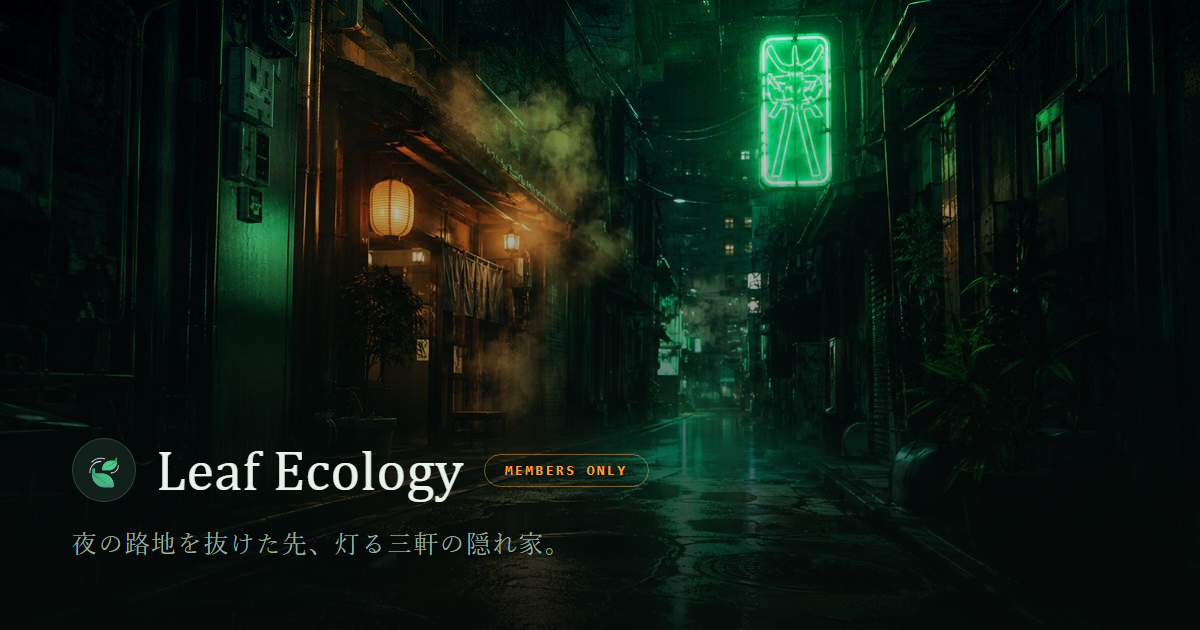
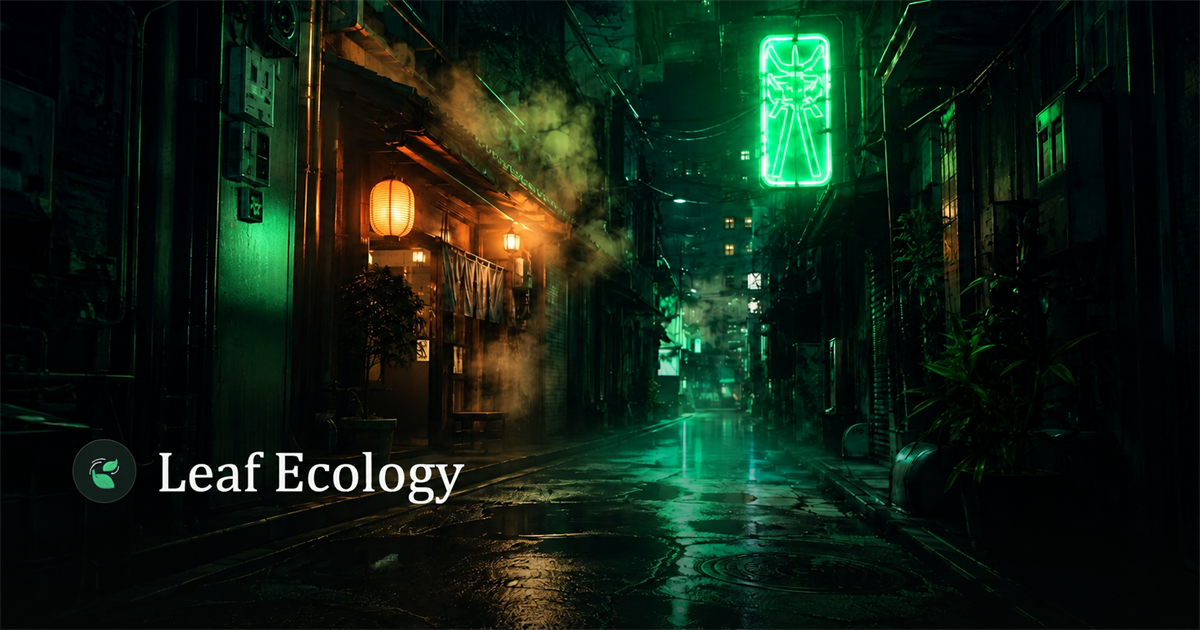
2026/10/25 update

diff --git a/ramen.css b/ramen.css
@@ -29,7 +29,7 @@
   margin-bottom: 2.5rem;
   border: 1px solid var(--line);
   border-radius: var(--radius-card);
-  padding: 2.25rem 2.25rem 2rem;
+  padding: 3.5rem 2.25rem;
   position: relative;
   overflow: hidden;
   isolation: isolate;
@@ -51,25 +51,12 @@
   background: linear-gradient(115deg, rgba(6,11,9,0.88) 30%, rgba(6,11,9,0.5) 100%);
 }
 .page-header .steam { z-index: 1; }
-.page-eyebrow {
-  position: relative; z-index: 2;
-  display: inline-flex; align-items: center; gap: 0.5rem;
-  font-family: var(--font-mono);
-  font-size: 0.68rem; font-weight: 500; letter-spacing: 0.2em;
-  text-transform: uppercase; color: var(--lantern);
-  margin-bottom: 0.7rem;
-}
-.page-eyebrow::before { content: ''; width: 20px; height: 1px; background: var(--lantern); }
 .page-title {
   position: relative; z-index: 2;
   font-family: var(--font-serif-jp);
   font-size: clamp(2rem, 4.5vw, 3.4rem);
   font-weight: 700; letter-spacing: 0.08em; line-height: 1.1;
-  color: var(--steam); margin-bottom: 0.6rem;
-}
-.page-sub {
-  position: relative; z-index: 2;
-  font-size: 0.9rem; color: var(--mist); max-width: 480px; line-height: 1.6;
+  color: var(--steam);
 }
 
 /* ── STATS BENTO ── */
@@ -385,6 +372,54 @@
 .modal-meta-label { font-size: 0.6rem; font-weight: 700; letter-spacing: 0.08em; text-transform: uppercase; color: var(--mist); margin-bottom: 0.2rem; }
 .modal-meta-val { font-size: 0.9rem; font-weight: 700; color: var(--steam); }
 
+/* ── BACK TO TOP ── */
+#back-to-top-sentinel {
+  width: 1px;
+  height: 1px;
+  pointer-events: none;
+}
+.back-to-top {
+  position: fixed;
+  right: 1.5rem;
+  bottom: 1.5rem;
+  z-index: 150;
+  width: 48px;
+  height: 48px;
+  display: grid;
+  place-items: center;
+  border: 1px solid rgba(240,160,75,0.65);
+  border-radius: 50%;
+  background: rgba(12,21,16,0.92);
+  color: var(--lantern);
+  box-shadow: 0 10px 28px rgba(0,0,0,0.38), inset 0 0 18px rgba(240,160,75,0.08);
+  backdrop-filter: blur(10px);
+  -webkit-backdrop-filter: blur(10px);
+  font-family: var(--font-sans);
+  font-size: 1.25rem;
+  line-height: 1;
+  cursor: pointer;
+  opacity: 0;
+  visibility: hidden;
+  pointer-events: none;
+  transform: translateY(10px);
+  transition: opacity 0.25s ease, transform 0.25s ease, visibility 0.25s;
+}
+.back-to-top.is-visible {
+  opacity: 1;
+  visibility: visible;
+  pointer-events: auto;
+  transform: translateY(0);
+}
+.back-to-top:hover {
+  background: var(--lantern);
+  color: var(--night-deep);
+}
+.back-to-top:active { transform: translateY(1px) scale(0.96); }
+.back-to-top:focus-visible {
+  outline: 2px solid var(--neon);
+  outline-offset: 4px;
+}
+
 /* ── RESPONSIVE ── */
 @media (max-width: 900px) {
   .page { padding: 80px 1.25rem 3rem; }
@@ -399,4 +434,9 @@
 @media (max-width: 480px) {
   .stats-bento { grid-template-columns: 1fr 1fr; }
   .stat-num { font-size: 2.2rem; }
+  .back-to-top { right: 1rem; bottom: 1rem; }
+}
+
+@media (prefers-reduced-motion: reduce) {
+  .back-to-top { transition: none; }
 }

diff --git a/script.js b/script.js
@@ -6,6 +6,7 @@ document.addEventListener('DOMContentLoaded', () => {
 
   /* JS有効の印(スクロール出現のCSSはこのクラス配下でのみ有効) */
   document.body.classList.add('js');
+  const reduceMotion = window.matchMedia('(prefers-reduced-motion: reduce)');
 
   /* ── Nav: スクロールで背景を濃くする(センチナル要素をIntersectionObserverで監視) ── */
   const nav = document.querySelector('nav');
@@ -15,6 +16,30 @@ document.addEventListener('DOMContentLoaded', () => {
       nav.classList.toggle('scrolled', !entry.isIntersecting);
     }, { threshold: 0 });
     navObserver.observe(scrollSentinel);
+  }
+
+  /* ── トップへ戻るボタン(統計エリア通過後に表示) ── */
+  const backToTop = document.getElementById('back-to-top');
+  const backToTopSentinel = document.getElementById('back-to-top-sentinel');
+
+  if (backToTop && backToTopSentinel) {
+    backToTop.addEventListener('click', () => {
+      window.scrollTo({
+        top: 0,
+        behavior: reduceMotion.matches ? 'auto' : 'smooth'
+      });
+    });
+
+    if ('IntersectionObserver' in window) {
+      const backToTopObserver = new IntersectionObserver(([entry]) => {
+        const hasPassedSentinel = !entry.isIntersecting && entry.boundingClientRect.top < 0;
+        backToTop.classList.toggle('is-visible', hasPassedSentinel);
+      }, { threshold: 0 });
+      backToTopObserver.observe(backToTopSentinel);
+    } else {
+      // 非対応環境では機能への導線を失わないよう常時表示
+      backToTop.classList.add('is-visible');
+    }
   }
 
   /* ── ハンバーガーメニュー ── */
@@ -64,7 +89,6 @@ document.addEventListener('DOMContentLoaded', () => {
   }
 
   /* ── 施錠扉: クリック/Enter/Spaceで「ガチャッ」と拒む ── */
-  const reduceMotion = window.matchMedia('(prefers-reduced-motion: reduce)');
   document.querySelectorAll('.room-locked').forEach(door => {
     const rattle = () => {
       // reduced-motion 時は揺らさない(鍵アイコンと減光で施錠は伝わる)

diff --git a/ramen.html b/ramen.html
@@ -37,11 +37,8 @@
   <a href="index.html" class="nav-logo">
     <div class="nav-logo-icon">🍃</div>
     <span>Leaf Ecology</span>
-    <span class="nav-badge">Members Only</span>
   </a>
   <ul class="nav-links" id="nav-links">
-    <li><a href="index.html#rooms">Hidden Gem</a></li>
-    <li><a href="ramen.html" class="active">Ramen</a></li>
     <li><a href="index.html" class="nav-cta">← Alley</a></li>
   </ul>
   <button class="nav-hamburger" id="nav-hamburger" aria-label="メニュー" aria-expanded="false">
@@ -60,9 +57,7 @@
       <div class="page-header-scrim"></div>
       <div class="steam"><i></i><i></i><i></i></div>
     </div>
-    <div class="page-eyebrow">Ramen Notes</div>
     <h1 class="page-title">ラーメン記録</h1>
-    <p class="page-sub"></p>
   </div>
 
   <!-- ── STATS BENTO ── -->
@@ -92,6 +87,9 @@
       <div class="stat-bg-emoji"></div>
     </div>
   </div>
+
+  <!-- トップへ戻るボタンの表示開始位置 -->
+  <div id="back-to-top-sentinel" aria-hidden="true"></div>
 
   <!-- ── FAVORITE SHOPS ── -->
   <div class="section-heading">
@@ -131,12 +129,13 @@
 
 <!-- ── FOOTER ── -->
 <footer class="site-foot">
-  <div class="foot-brand">
-    <span class="foot-logo">🍃 Leaf Ecology</span>
-    <span class="foot-est">Est. 2026</span>
-  </div>
-  <span class="foot-note">Private Archive · All Rights Reserved</span>
+  <span class="foot-logo">🍃 Leaf Ecology</span>
 </footer>
+
+<!-- ── BACK TO TOP ── -->
+<button class="back-to-top" id="back-to-top" type="button" aria-label="ページの先頭へ戻る">
+  <span aria-hidden="true">↑</span>
+</button>
 
 <!-- ── MODAL ── -->
 <div class="modal-overlay" id="modal-overlay">

diff --git a/style.css b/style.css
@@ -236,16 +236,6 @@ nav.scrolled {
   display: flex; align-items: center; justify-content: center;
   font-size: 0.95rem; flex-shrink: 0;
 }
-.nav-badge {
-  font-family: var(--font-mono);
-  font-size: 0.6rem; font-weight: 500;
-  text-transform: uppercase; letter-spacing: 0.16em;
-  color: var(--lantern);
-  border: 1px solid rgba(240,160,75,0.45);
-  border-radius: var(--radius-pill);
-  padding: 0.18rem 0.6rem;
-  white-space: nowrap;
-}
 .nav-links { display: flex; gap: 2rem; list-style: none; align-items: center; }
 .nav-links a {
   text-decoration: none; color: var(--mist);
@@ -292,7 +282,6 @@ nav.scrolled {
 
 @media (max-width: 900px) {
   nav { padding: 0.8rem 1.25rem; }
-  .nav-badge { display: none; }
   .nav-hamburger { display: flex; }
 
   .nav-links {
@@ -327,26 +316,15 @@ nav.scrolled {
   border-top: 1px solid var(--line);
   background: var(--night-deep);
   padding: 2rem 3rem;
-  display: flex; align-items: center; justify-content: space-between;
-  gap: 1rem; flex-wrap: wrap;
-}
-.foot-brand {
-  display: flex; align-items: baseline; gap: 1.2rem; flex-wrap: wrap;
+  display: flex; align-items: center;
 }
 .foot-logo {
   font-family: var(--font-serif-en);
   font-size: 1rem;
   color: var(--steam);
 }
-.foot-est, .foot-note {
-  font-family: var(--font-mono);
-  font-size: 0.66rem; font-weight: 500;
-  text-transform: uppercase; letter-spacing: 0.16em;
-  color: var(--mist);
-}
-
 @media (max-width: 900px) {
-  .site-foot { padding: 1.75rem 1.5rem; flex-direction: column; align-items: flex-start; }
+  .site-foot { padding: 1.75rem 1.5rem; }
 }
 
 /* ══════════════════════════════

diff --git a/index.css b/index.css
@@ -209,38 +209,6 @@
 .room-open:hover .room-door-img { transform: scale(1.04); }
 
 /* ══════════════════════════════
-   OWNER — 店主の卓
-══════════════════════════════ */
-.owner {
-  border-top: 1px solid var(--line);
-  padding: 7rem 2rem;
-  text-align: center;
-  background: radial-gradient(ellipse 60% 50% at 50% 0%, var(--lantern-dim), transparent);
-}
-.owner-inner { max-width: 640px; margin: 0 auto; }
-.owner-quote {
-  font-family: var(--font-serif-jp);
-  font-weight: 600;
-  font-size: clamp(1.9rem, 4.5vw, 3rem);
-  letter-spacing: 0.22em;
-  color: var(--steam);
-  margin-bottom: 2rem;
-}
-.owner-body {
-  font-family: var(--font-serif-jp);
-  font-weight: 500;
-  font-size: 0.92rem;
-  letter-spacing: 0.1em;
-  line-height: 2.4;
-  color: var(--mist);
-}
-.owner-rule {
-  width: 72px; height: 1px;
-  margin: 3rem auto 0;
-  background: linear-gradient(to right, transparent, var(--lantern), transparent);
-}
-
-/* ══════════════════════════════
    RESPONSIVE
 ══════════════════════════════ */
 @media (max-width: 900px) {
@@ -253,5 +221,4 @@
 
 @media (max-width: 480px) {
   .rooms { padding: 4rem 1.25rem 3.5rem; }
-  .owner { padding: 5rem 1.5rem; }
 }

diff --git a/index.html b/index.html
@@ -40,11 +40,8 @@
   <a href="#" class="nav-logo">
     <div class="nav-logo-icon">🍃</div>
     <span>Leaf Ecology</span>
-    <span class="nav-badge">Members Only</span>
   </a>
   <ul class="nav-links" id="nav-links">
-    <li><a href="#rooms">Hidden Gem</a></li>
-    <li><a href="#owner">Graffiti</a></li>
     <li><a href="ramen.html" class="nav-cta">Ramen →</a></li>
   </ul>
   <button class="nav-hamburger" id="nav-hamburger" aria-label="メニュー" aria-expanded="false">
@@ -150,25 +147,9 @@
   </div>
 </section>
 
-<!-- ── OWNER : 店主の卓 ── -->
-<section class="owner" id="owner">
-  <div class="owner-inner reveal">
-    <p class="owner-quote">一杯、一手、一鞍。</p>
-    <p class="owner-body">
-      趣味は消費ではなく、記録に値する営みだと思っている。<br>
-      ここは、そのすべてを灯しておくための路地裏の部屋。
-    </p>
-    <div class="owner-rule" aria-hidden="true"></div>
-  </div>
-</section>
-
 <!-- ── FOOTER ── -->
 <footer class="site-foot">
-  <div class="foot-brand">
-    <span class="foot-logo">🍃 Leaf Ecology</span>
-    <span class="foot-est">Est. 2026</span>
-  </div>
-  <span class="foot-note">Private Archive · All Rights Reserved</span>
+  <span class="foot-logo">🍃 Leaf Ecology</span>
 </footer>
 
 <!-- JavaScript -->

diff --git a/docs/decisions.md b/docs/decisions.md
@@ -194,6 +194,23 @@ door-ramen.jpg に既に提灯が写り込んでいるため、index.html の RA
 ### ramen.html ナビ文言の統一（2026-07-08）
 index.html のナビ変更に合わせ、ramen.html 側のナビも統一: 「The Rooms」→「Hidden Gem」/「← 路地へ」→「← Alley」。
 
+### ヘッダ・フッタの簡略化（2026-10-25）
+index.html / ramen.html の共通ヘッダから `Members Only` と `Hidden Gem` を削除し、index.html では `Graffiti`、ramen.html では現在地表示の `Ramen` も削除。フッタは両ページとも `Leaf Ecology` のブランド表記だけに整理した。
+
+index.html は Owner セクション（「一杯、一手、一鞍。」を含むブロック）を削除し、Rooms からフッタへ直接つながる構成に変更。ramen.html はページヘッダの可視ラベル `Ramen Notes` を削除。SNSカード用の meta description にある `Ramen Notes` は画面表示ではないため維持する。
+
+その後の見た目調整で、「ラーメン記録」の書体は元の `--font-serif-jp`（Shippori Mincho）へ戻した。ページヘッダ帯は固定高を使わず、上下パディングを `3.5rem` に増やして縦方向の余白を広げた。
+
+### ramen.html トップへ戻るボタン（2026-10-25）
+長いレビュー一覧から先頭へ戻りやすくするため、右下固定の `.back-to-top` ボタンを追加。統計エリア末尾に置いた `#back-to-top-sentinel` を IntersectionObserver で監視し、センチネルを上方向へ通過した後だけ表示する。継続的な `scroll` イベントは使用しない。
+
+通常はスムーズスクロール、`prefers-reduced-motion: reduce` では即時移動とする。ネイティブの `<button>`、`aria-label`、`:focus-visible` を備え、IntersectionObserver 非対応環境では常時表示する。z-index は150とし、モーダル（200）より背面に配置した。詳細仕様は `docs/specs/SPEC_back-to-top.md` を参照。
+
+### OGP画像の文字整理（2026-10-25）
+既存OGP画像を ImageGen の precise-object-edit で編集。`ogp_home.png` は葉アイコンと `Leaf Ecology` のブランド表記だけを残し、`MEMBERS ONLY` と日本語タグラインを背景へ自然に補完して削除した。`ogp_ramen.png` はロゴ・英字・日本語見出し・補足文をすべて削除し、文字なしのラーメン店内写真へ変更した。
+
+生成結果は目視確認後、中央基準でOGP比率へクロップし、従来と同じ1200×630 PNGとして既存ファイルを置き換えた。HTML内のOGP参照パスは変更していない。
+
 ### 未着手（次フェーズ）
 - ブラウザでの目視確認（レスポンシブ・reduced-motion・ramen.html 機能回帰）
 - OGPの実際の見え方をFacebook/Twitter等のデバッガーで確認（本番デプロイ後）

diff --git a/docs/todo.md b/docs/todo.md
@@ -1,5 +1,33 @@
 # Todo — Leaf Ecology
 
+## OGP画像の文字整理（2026-10-25）
+
+- [x] `ogp_home.png` は Leaf Ecology と葉アイコンだけ残して他の文字を削除
+- [x] `ogp_ramen.png` から全ての文字・ロゴを削除
+- [x] 生成結果を目視確認して既存ファイルへ反映
+- [x] `docs/decisions.md` へ変更内容を記録
+
+## ramen.html トップへ戻るボタン（2026-10-25）
+
+- [x] 機能仕様書を作成
+- [x] 右下固定ボタンと表示スタイルを追加
+- [x] IntersectionObserver による表示制御と先頭移動を実装
+- [x] reduced-motion・キーボード操作・非対応環境を考慮
+- [x] JS構文・差分・JSON検証を実施
+- [ ] ブラウザで表示位置・スクロール動作を目視確認
+
+## ヘッダ・フッタ簡略化（2026-10-25）
+
+- [x] index.html / ramen.html のヘッダから Members Only・Hidden Gem・Graffiti を削除
+- [x] index.html / ramen.html のフッタを Leaf Ecology 表記のみに簡略化
+- [x] index.html の Owner セクション（「一杯、一手、一鞍。」からフッタ直前まで）を削除
+- [x] 不要になった共通CSS・トップ専用CSSを削除
+- [x] ramen.html のヘッダから Ramen、ページ見出しから Ramen Notes を削除
+- ~~「ラーメン記録」の書体を他の日本語見出しと統一~~ → 後続指示で元の書体へ復元
+- [x] 「ラーメン記録」の書体を元の和文明朝へ戻す
+- [x] ramen.html のページヘッダ帯の縦幅を広げる
+- [ ] 検証コマンドとブラウザ表示確認を実施
+
 ## 全面リデザイン「深夜の裏路地」(2026-07-08 着手)
 
 コンセプト: 深夜の裏路地に迷い込み、奥に RAMEN / POKER / RACE の三つの扉を見つけるパーソナルワールド。企画・実装計画は `ramen-plaer-race-do-temporal-lightning.md`(plan file)を参照。旧「THE CLUBHOUSE」構想はこのリデザインに統合し、方針を刷新。
